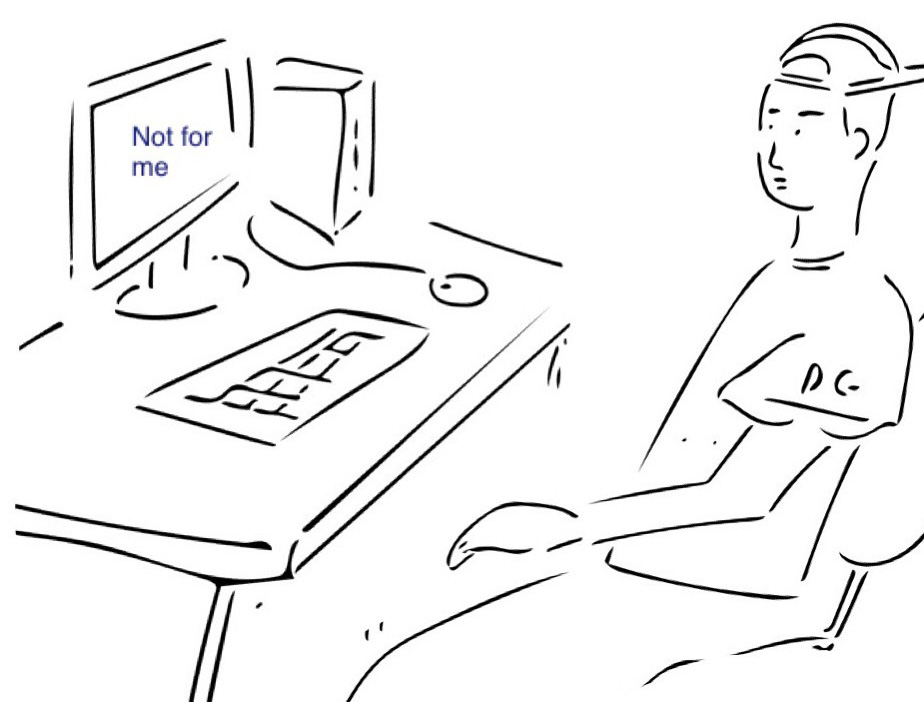
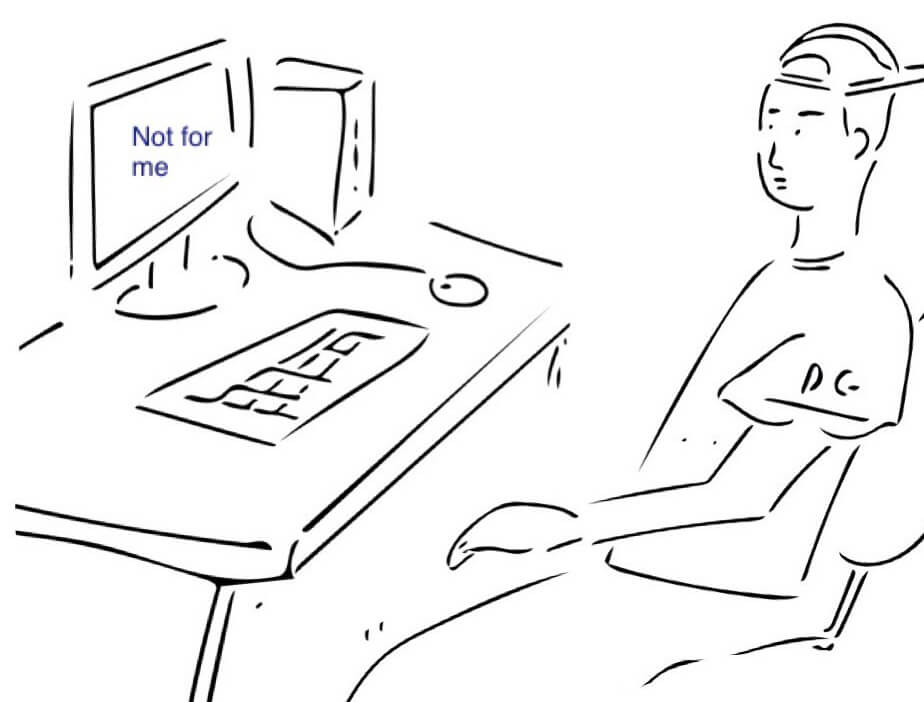
minor fix toppage

diff --git a/src/containers/Top.js b/src/containers/Top.js
@@ -7,7 +7,7 @@ import Grid from '@material-ui/core/Grid';
 import Divider from '@material-ui/core/Divider';
 import Button from '@material-ui/core/Button';
 
-import desk from '../images/illust/desk.png';
+import pcMan from '../images/illust/pc_man.jpg';
 import skateboard from '../images/illust/skateboard.jpg';
 import teamMens from '../images/illust/team_mens.jpg';
 import example from '../images/example.png';
@@ -58,7 +58,7 @@ function Top(props) {
             title="Getting Started Taskontable"
             width={isMobile ? window.innerWidth : '960'}
             height={isMobile ? window.innerWidth * 0.56 : '540'} // 16:9
-            src={`https://www.youtube.com/embed/${constants.YOUTUBE_MOVIE_ID}?rel=0&showinfo=0&modestbranding=1`}
+            src={`https://www.youtube.com/embed/${constants.YOUTUBE_MOVIE_ID}?rel=0&showinfo=1&modestbranding=1`}
             frameBorder="0"
             allow="autoplay; encrypted-media"
             allowFullScreen
@@ -82,7 +82,7 @@ function Top(props) {
           <div className={classes.content}>
             <Grid spacing={0} container alignItems="center" justify="center">
               <Grid item xs={12} md={5}>
-                <img className={classes.center} style={{ marginBottom: '2em', width: '100%', maxWidth: 300 }} src={desk} alt="desk" />
+                <img className={classes.center} style={{ marginBottom: '2em', width: '100%', maxWidth: 300 }} src={pcMan} alt="pcMan" />
               </Grid>
               <Grid item xs={12} md={7}>
                 <Typography variant="subheading" align="center" style={{ marginBottom: '2em' }}>

diff --git a/src/containers/GlobalHeader.js b/src/containers/GlobalHeader.js
@@ -84,7 +84,7 @@ class GlobalHeader extends Component {
     } else {
       setTimeout(() => {
         window.Headway.init({ selector: '#changelog', account: constants.HEADWAY_ACCOUNT });
-      }, 100000);
+      }, 10000);
     }
   }
 
